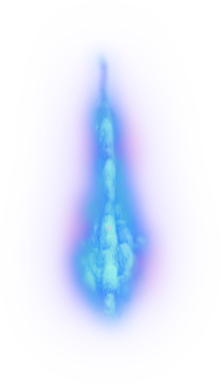
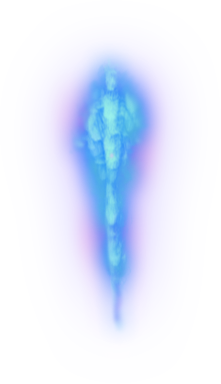
PowerShot creado

Changed region(s): [[0.2443, 0.125, 0.7602, 0.875]]

diff --git a/src/GameManager.cpp b/src/GameManager.cpp
@@ -3,6 +3,7 @@
 #include "Projectile.h"
 #include "Asteroid.h"
 #include <stdio.h>
+#include <iostream>
 
 GameManager::GameManager(sf::RenderWindow & appWindow) :
     renderWindow(appWindow)
@@ -11,6 +12,9 @@ GameManager::GameManager(sf::RenderWindow & appWindow) :
     asteroidTimer = 3.0f;
     contador = 0;
     points = 0;
+    weaponTimer = 0.3f;
+    countPowerShot = 0.0f;
+    shotStatus = 0;
 }
 
 GameManager::~GameManager()
@@ -20,7 +24,7 @@ GameManager::~GameManager()
 
 bool GameManager::Initialize()
 {
-    if (!backgroundImg.LoadFromFile("graphics/BackgroundWhite.png"))
+    if (!backgroundImg.LoadFromFile("graphics/Background.png"))
         return false;
 
     backgroundSprite.SetImage(backgroundImg);
@@ -37,6 +41,8 @@ bool GameManager::Initialize()
 
     spaceShip = new SpaceShip(this, sf::Vector2f(renderWindow.GetWidth()/2, renderWindow.GetHeight()/2));
     RegisterGameObject(spaceShip);
+
+    countPowerShot = 0.0f;
 
 //    for (int i=0; i<3; i++){
 //        LaunchRandomAsteroids();
@@ -101,9 +107,27 @@ void GameManager::UpdateGame(float deltaTime)
         rotationDir -= 2.0f;
 
     spaceShip->SetRotationDir(rotationDir);
+    weaponTimer -= deltaTime;
 
-    if (input.IsKeyDown(sf::Key::Space))
-        spaceShip->EvalProjectile();
+    if (input.IsKeyDown(sf::Key::Space)){
+        if (weaponTimer <= 0){
+            if (shotStatus == 0) {
+                spaceShip->EvalProjectile(Projectile::WEAK);
+                weaponTimer = 0.3f;
+                shotStatus = 1;
+            }
+        }
+        countPowerShot += deltaTime;
+    } else {
+        countPowerShot = 0.0f;
+        shotStatus = 0;
+    }
+
+    if (countPowerShot >= 0.5f) {
+        spaceShip->EvalProjectile(Projectile::STRONG);
+        countPowerShot = 0.0f;
+        weaponTimer = 0.3f;
+    }
 
     if (input.IsKeyDown(sf::Key::Up)) {
         spaceShip->Accelerate(deltaTime, 1.0f);
@@ -140,7 +164,7 @@ void GameManager::UpdateGame(float deltaTime)
             if(activeGameObjects[i]->GetType() == GameObject::PROJECTILE &&
                     activeGameObjects[j]->GetType() == GameObject::ASTEROID &&
                     CircleCollision(activeGameObjects[i]->GetSpacePosition(),
-                                    radio1,
+                                    radio1*0.8,
                                     activeGameObjects[j]->GetSpacePosition(),
                                     radio2)){
                 activeGameObjects[i]->Destroy();

diff --git a/src/SpaceShip.cpp b/src/SpaceShip.cpp
@@ -19,7 +19,6 @@ SpaceShip::SpaceShip(GameManager * ownerGame, sf::Vector2f initialPosition)
     sprite.SetScale(1.0f, 1.0f);
     spriteRotation = -90;
     rotationDir = 0;
-    weaponTimer = 0.3;
 
     type = SPACESHIP;
 
@@ -34,15 +33,13 @@ SpaceShip::~SpaceShip()
 }
 
 // Encargado de lanzar un proyectil
-void SpaceShip::EvalProjectile()
+void SpaceShip::EvalProjectile(Projectile::TypeProjectile tipo)
 {
-    if (weaponTimer < 0)
-    {
-        Projectile * projectile = new Projectile(gameManager, position, orientation);
+    
+        Projectile * projectile = new Projectile(gameManager, position, orientation, tipo);
         gameManager->RegisterGameObject(projectile); // Se registra la creacion del nuevo proyectil
-        weaponTimer = 0.3;
-    }
 }
+
 
 void SpaceShip::Accelerate(float deltaTime, float mode){
     speed += acceleration * deltaTime * mode;
@@ -64,8 +61,6 @@ void SpaceShip::Update(float deltaTime)
     direction.y = sin(-angle);
 
     position += direction * speed * deltaTime;
-
-    weaponTimer -= deltaTime;
     
 }
 
@@ -104,13 +99,6 @@ float SpaceShip::GetRotationDir(){
 }
 void SpaceShip::SetRotationDir(float rotationDir){
     this->rotationDir = rotationDir;
-}
-
-float SpaceShip::GetWeaponTime(){
-    return weaponTimer;
-}
-void SpaceShip::SetWeaponTime(float weaponTimer){
-    this->weaponTimer = weaponTimer;
 }
 
 float SpaceShip::GetSpeed(){

diff --git a/src/Projectile.cpp b/src/Projectile.cpp
@@ -1,22 +1,35 @@
 #include <math.h>
 #include "Definitions.h"
 #include "Projectile.h"
+#include <iostream>
+using namespace std;
 
 sf::Image Projectile::projectileImg;
+sf::Image Projectile::projectileImg2;
 
-Projectile::Projectile(GameManager * ownerGame, sf::Vector2f initialPosition, float initialOrientation) :
+Projectile::Projectile(GameManager * ownerGame, sf::Vector2f initialPosition, float initialOrientation, TypeProjectile tipo) :
     GameObject(ownerGame)
 {
     gameManager = ownerGame;
     position = initialPosition;
     orientation = initialOrientation;
-    speed = 300;
+    
     lifeTime = 3.0f;
-    sprite.SetImage(projectileImg);
+    
+
+    typeProjectile = tipo;
+    if (typeProjectile == WEAK) {
+        sprite.SetImage(projectileImg);
+        speed = 300;
+    } else {
+        sprite.SetImage(projectileImg2);
+        speed = 500;
+    }
+
     sprite.SetCenter(sprite.GetSize().x / 2, sprite.GetSize().y / 2);
     sprite.SetScale(1.0f, 1.0f);
     spriteRotation = -90;
-
+    
     type = PROJECTILE;
 }
 
@@ -47,9 +60,9 @@ void Projectile::Update(float deltaTime)
 
 bool Projectile::LoadImages()
 {
-    if (!projectileImg.LoadFromFile("graphics/Projectile07.png"))
+    if (!projectileImg.LoadFromFile("graphics/Projectile10.png") || !projectileImg2.LoadFromFile("graphics/Projectile09.png"))
         return false;
-
+    
     return true;
 }
 

diff --git a/include/SpaceShip.h b/include/SpaceShip.h
@@ -1,6 +1,7 @@
 #pragma once
 
 #include "GameObject.h"
+#include "Projectile.h"
 
 class SpaceShip : public GameObject
 {
@@ -9,7 +10,7 @@ public:
     SpaceShip(GameManager * ownerGame, sf::Vector2f initialPosition);
     virtual ~SpaceShip();
 
-    void EvalProjectile();
+    void EvalProjectile(Projectile::TypeProjectile tipo);
 
     virtual void Update(float deltaTime);
     virtual void Draw(sf::RenderWindow & render);
@@ -26,9 +27,6 @@ public:
     float GetRotationDir();
     void SetRotationDir(float rotationDir);
 
-    float GetWeaponTime();
-    void SetWeaponTime(float rotationDir);
-
     float GetSpeed();
     void SetSpeed(float speed);
 
@@ -44,7 +42,7 @@ private:
 
     int vida; // Puntos de vida de la nave
     float rotationDir; // Direccion de rotacion de la nave
-    float weaponTimer; // Variable encargada de almacenar el tiempo minimo entre cada disparo
+    
     float speed; //Velocidad de la nave
     float acceleration; // Aceleracion de la nave
 };

diff --git a/include/Projectile.h b/include/Projectile.h
@@ -5,8 +5,11 @@
 class Projectile : public GameObject
 {
 public:
+    typedef enum {
+        WEAK, STRONG
+    } TypeProjectile;
 
-    Projectile(GameManager * ownerGame, sf::Vector2f initialPosition, float initialOrientation);
+    Projectile(GameManager * ownerGame, sf::Vector2f initialPosition, float initialOrientation, TypeProjectile tipo);
     virtual ~Projectile();
 
     virtual void Update(float deltaTime);
@@ -23,7 +26,9 @@ public:
 protected:
 
     static sf::Image projectileImg;
+    static sf::Image projectileImg2;
 
     float speed; // Variable que contiene la velocidad de el proyectil
     float lifeTime; // Vida de el proyectil
+    TypeProjectile typeProjectile;
 };

diff --git a/include/GameManager.h b/include/GameManager.h
@@ -48,6 +48,9 @@ class GameManager
 
         float asteroidTimer;
         int points;
+        float countPowerShot;
+        float weaponTimer; // Variable encargada de almacenar el tiempo minimo entre cada disparo
+        int shotStatus;
 };
 
 #endif // GAMEMANAGER_H
